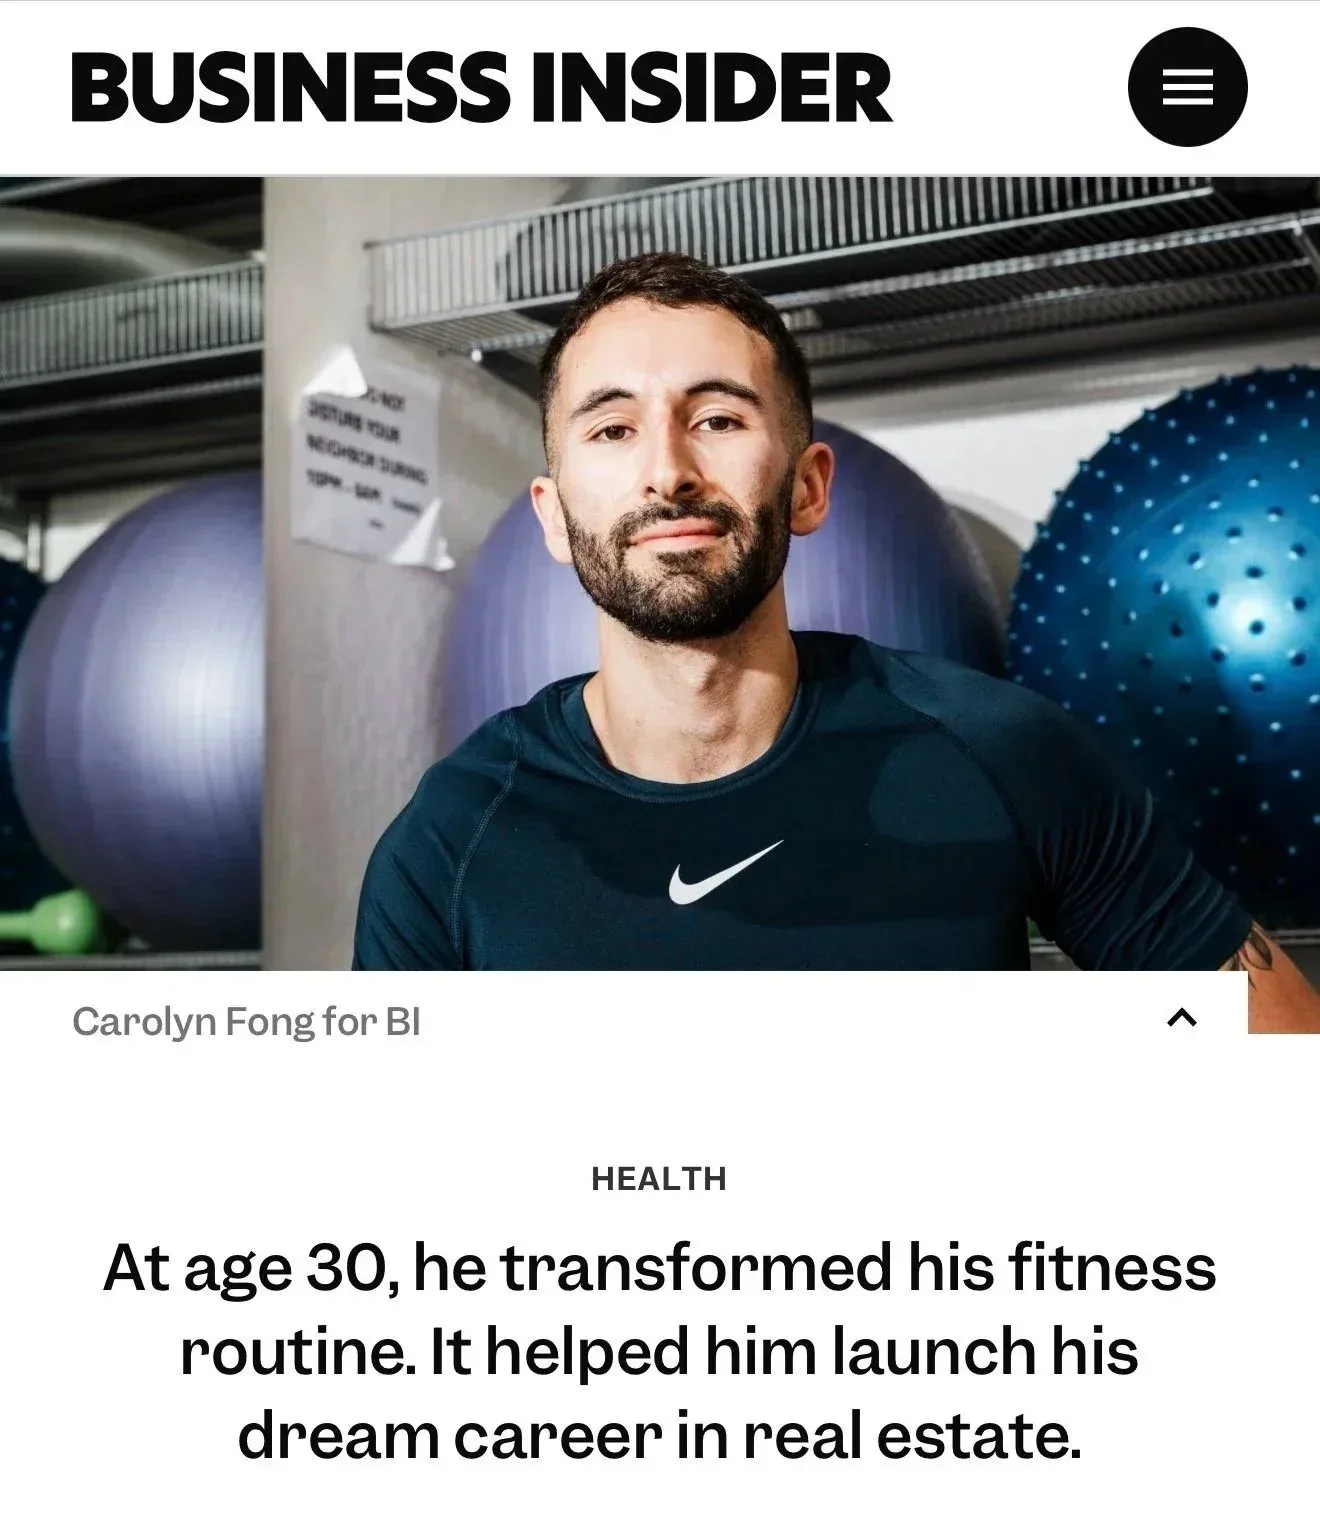
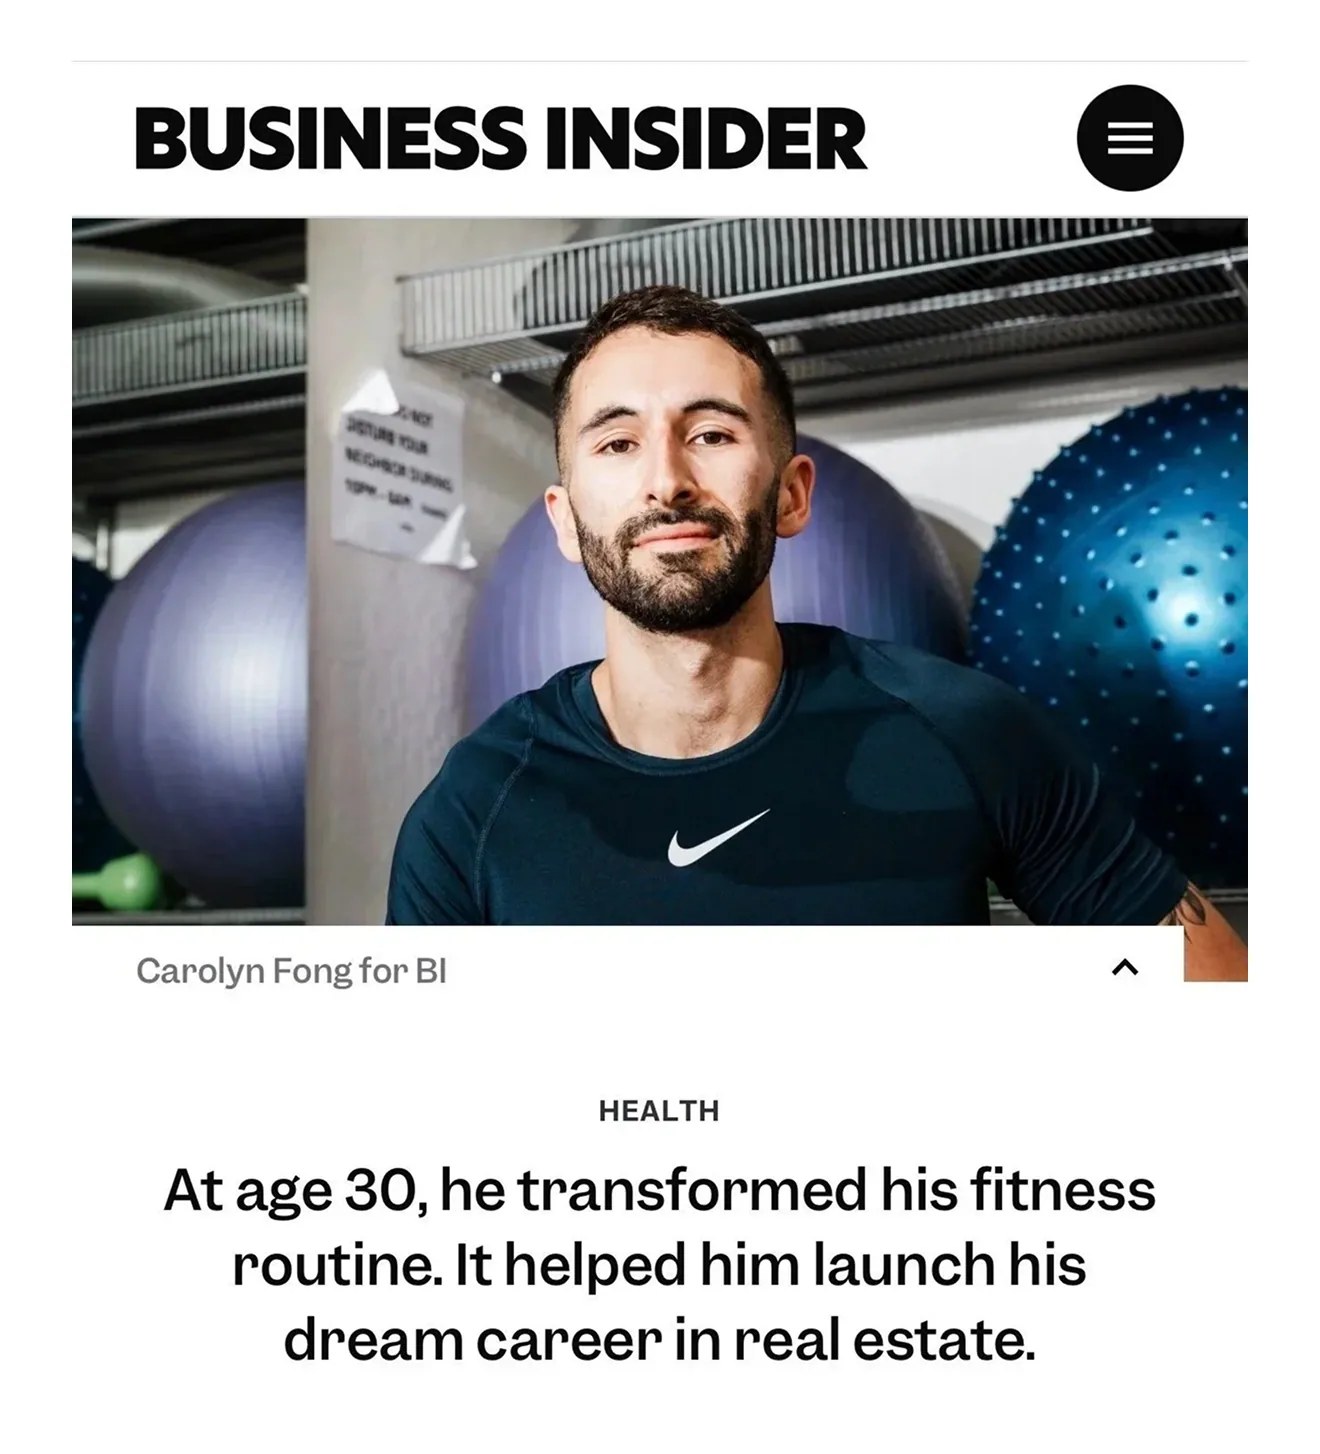
feat(meetdustin): As Featured In from Figma 630:39; 4:5 portrait with the button pinned
Featured: publication in Graphite at the left; body, the outlined button --space-l below and the screenshot
collage --space-xl under it in columns 13–24 — two screenshots stacked beside the tall one (270:398), each at
its own aspect ratio from scripts/assets.json, wiping up in turn. business-insider-1 regenerated from the new PNG.
Hero: the portrait is 4:5 again and the button sits at the bottom of the text column.
Buttons wrap below 768px so long labels never overflow the viewport.

diff --git a/app/meetdustin/page.tsx b/app/meetdustin/page.tsx
@@ -5,13 +5,25 @@ import Img from "@/components/Img";
 import Button from "@/components/Button";
 import Hairline from "@/components/Hairline";
 import { meetDustin, site } from "@/lib/copy";
+import assets from "@/scripts/assets.json";
 import styles from "./page.module.css";
+
+/** One press screenshot at its own aspect ratio (from scripts/assets.json), wiping up into view. */
+function PressImage({ src, stagger }: { src: string; stagger: number }) {
+  const dims = (assets as Record<string, { width: number; height: number }>)[`public${src}`];
+  return (
+    <Reveal as="figure" mode="clip" stagger={stagger} className={styles.pressItem} style={dims ? { aspectRatio: `${dims.width} / ${dims.height}` } : undefined}>
+      {/* alt text for the Business Insider images is [TODO] in content/copy.md */}
+      <Img src={src} alt={meetDustin.featured.publication} fill sizes="(max-width: 767px) 50vw, 25vw" className={styles.img} />
+    </Reveal>
+  );
+}
 
 export const metadata: Metadata = { title: `${meetDustin.headline} — ${site.logo}` };
 
 /** /meetdustin (BUILD.md §5, laid out like the reference "Our Founder" screen): the H1 across the top, then the
- *  subheadline, body and outlined button in columns 1–11 beside the portrait in columns 13–24; As Featured In on Stone, the pull-quote
- *  on Ink, three hairline resource rows. */
+ *  subheadline, body and outlined button in columns 1–11 beside the portrait in columns 13–24; As Featured In on Stone (Figma 630:39: publication
+ *  left, body + button and the screenshot collage in columns 13–24), the pull-quote on Ink, three hairline resource rows. */
 export default function MeetDustinPage() {
   const { featured, quote, resources } = meetDustin;
   return (
@@ -45,29 +57,32 @@ export default function MeetDustinPage() {
       </section>
 
       <Section label={featured.label} tone="stone" id="featured">
-        <div className="grid">
-          <Reveal as="p" className={`mono ${styles.publication}`}>{featured.publication}</Reveal>
+        <div className={`grid ${styles.featuredGrid}`}>
+          <Reveal as="p" className={`mono ${styles.publication}`}>
+            {featured.publication}
+          </Reveal>
           <div className={styles.featuredBody}>
             {featured.body.map((p) => (
               <Reveal as="p" key={p} className="p2">
                 {p}
               </Reveal>
             ))}
+            <Reveal className={styles.featuredAction}>
+              <Button variant="outlined" href={featured.button.href}>
+                {featured.button.label}
+              </Button>
+            </Reveal>
+          </div>
+          {/* The article screenshots in the Figma collage (630:39): two stacked on the left, the tall one on the right */}
+          <div className={styles.press}>
+            <div className={styles.pressStack}>
+              {[featured.images[0], featured.images[2]].map((src, i) => (
+                <PressImage key={src} src={src} stagger={i} />
+              ))}
+            </div>
+            <PressImage src={featured.images[1]} stagger={2} />
           </div>
         </div>
-        <ul className={styles.press}>
-          {featured.images.map((src, i) => (
-            <Reveal as="li" key={src} mode="clip" stagger={i} className={styles.pressItem}>
-              {/* alt text for the Business Insider images is [TODO] in content/copy.md */}
-              <Img src={src} alt={featured.publication} fill sizes="(max-width: 767px) 100vw, 30vw" className={styles.img} />
-            </Reveal>
-          ))}
-        </ul>
-        <Reveal className={styles.featuredAction}>
-          <Button variant="outlined" href={featured.button.href}>
-            {featured.button.label}
-          </Button>
-        </Reveal>
       </Section>
 
       <section className={`${styles.quote} page`} data-tone="ink">

diff --git a/app/meetdustin/page.module.css b/app/meetdustin/page.module.css
@@ -1,21 +1,24 @@
 /* Hero (the reference layout): the H1 across the top; then the subheadline, body and button in columns 1–11
-   beside the portrait in columns 13–24 bleeding right, as tall as the text (4:5 on mobile, between H1 and text) */
+   beside the 4:5 portrait in columns 13–24 bleeding right; the button sits at the bottom of the text column */
 .hero { padding-top: var(--space-2xl); padding-bottom: var(--section-pad); }
-.heroGrid { align-items: stretch; row-gap: var(--space-xl); }
+.heroGrid { align-items: start; row-gap: var(--space-xl); }
 .headline { grid-column: 1 / span 14; }
 .heroText { grid-column: 1 / span 11; display: flex; flex-direction: column; align-items: flex-start; }
 .subheadline { margin-top: 0; }
 .body { display: flex; flex-direction: column; gap: var(--space-m); margin-top: var(--space-m); }
 .heroAction { margin-top: auto; padding-top: var(--space-xl); }
-.portrait { grid-column: 13 / -1; align-self: stretch; justify-self: stretch; position: relative; margin: 0 calc(-1 * var(--gutter)) 0 0; overflow: hidden; background: var(--stone); }
+.portrait { grid-column: 13 / -1; position: relative; aspect-ratio: 4 / 5; margin: 0 calc(-1 * var(--gutter)) 0 0; overflow: hidden; background: var(--stone); }
 .img { object-fit: cover; }
 
-/* As Featured In */
-.publication { grid-column: 1 / span 4; color: var(--taupe); }
-.featuredBody { grid-column: 5 / span 13; display: flex; flex-direction: column; gap: var(--space-m); }
-.press { display: flex; justify-content: space-between; gap: var(--col-gap); margin-top: var(--space-l); }
-.pressItem { position: relative; width: calc((100% - 23 * var(--col-gap)) / 24 * 7 + 6 * var(--col-gap)); aspect-ratio: 4 / 5; overflow: hidden; background: var(--paper); }
-.featuredAction { display: flex; align-items: center; gap: var(--space-s); margin-top: var(--space-l); }
+/* As Featured In (Figma 630:39): publication in Graphite at the left; body, the outlined button --space-l below it,
+   and --space-xl under that the collage — two screenshots stacked beside a tall one, 270:398 wide, one column gap */
+.featuredGrid { row-gap: var(--space-xl); }
+.publication { grid-column: 1 / span 4; color: var(--graphite); }
+.featuredBody { grid-column: 13 / -1; display: flex; flex-direction: column; align-items: flex-start; gap: var(--space-m); }
+.featuredAction { margin-top: calc(var(--space-l) - var(--space-m)); }
+.press { grid-column: 13 / span 10; display: grid; grid-template-columns: 270fr 398fr; gap: var(--col-gap); align-items: start; }
+.pressStack { display: flex; flex-direction: column; gap: var(--col-gap); }
+.pressItem { position: relative; margin: 0; overflow: hidden; background: var(--paper); }
 .needed { color: var(--taupe); }
 
 /* Pull-quote on Ink */
@@ -32,12 +35,9 @@
 
 @media (max-width: 767px) {
   .heroGrid { row-gap: var(--space-l); }
-  .headline, .heroText, .portrait, .publication, .featuredBody, .blockquote, .resourcesHeadline, .rowTitle, .rowText { grid-column: 1 / -1; }
-  .portrait { order: 0; align-self: auto; aspect-ratio: 4 / 5; margin-right: 0; }   /* H1, photo, then the text on mobile */
+  .headline, .heroText, .portrait, .publication, .featuredBody, .press, .blockquote, .resourcesHeadline, .rowTitle, .rowText { grid-column: 1 / -1; }
+  .featuredGrid { row-gap: var(--space-l); }
+  .portrait { order: 0; margin-right: 0; }   /* H1, photo, then the text on mobile */
   .heroText { order: 1; }
   .heroAction { padding-top: var(--space-l); }
-  .featuredBody { margin-top: var(--space-s); }
-  .press { flex-direction: column; }
-  .pressItem { width: 100%; }
-  .featuredAction { flex-wrap: wrap; }
 }

diff --git a/components/Button.module.css b/components/Button.module.css
@@ -29,6 +29,11 @@
 .outlined:hover, .outlined:focus-visible { color: var(--outline-flip); }
 .outlined:hover::before, .outlined:focus-visible::before { height: 100%; }
 
+/* Long labels ("Read the full article on Business Insider") wrap on phones instead of overflowing */
+@media (max-width: 767px) {
+  .button { white-space: normal; text-align: left; max-width: 100%; }
+}
+
 @media (prefers-reduced-motion: reduce) {
   .button, .button::before { transition: none; }
 }

diff --git a/ASSETS.md b/ASSETS.md
@@ -49,7 +49,7 @@ This file is written by that script — do not edit by hand.
 | `public/images/neighborhoods/twin-peaks.webp` | `assets/images/neighborhoods/ Twin Peaks.jpg` | 1600 × 2400 | 643 KB |
 | `public/images/portrait/dustin-1.webp` | `assets/images/portrait/dustin-1.png` | 1856 × 2304 | 305 KB |
 | `public/images/portrait/dustin-2.webp` | `assets/images/portrait/dustin-2.png` | 2560 × 1524 | 156 KB |
-| `public/images/press/business-insider-1.webp` | `assets/images/press/business-insider/business-insider-1.webp` | 1320 × 1532 | 110 KB |
+| `public/images/press/business-insider-1.webp` | `assets/images/press/business-insider/business-insider-1.png` | 1320 × 1454 | 83 KB |
 | `public/images/press/business-insider-2.webp` | `assets/images/press/business-insider/business-insider-2.webp` | 1320 × 2465 | 146 KB |
 | `public/images/press/business-insider-3.webp` | `assets/images/press/business-insider/business-insider-3.webp` | 1320 × 2038 | 79 KB |
 | `public/real-estate-iq/index.html` | `The existing Real Estate IQ game, single-file HTML supplied by Ehsan (Sep 20, 2026); embedded as-is via components/GameEmbed.tsx` | 0 × 0 | 80 KB |
